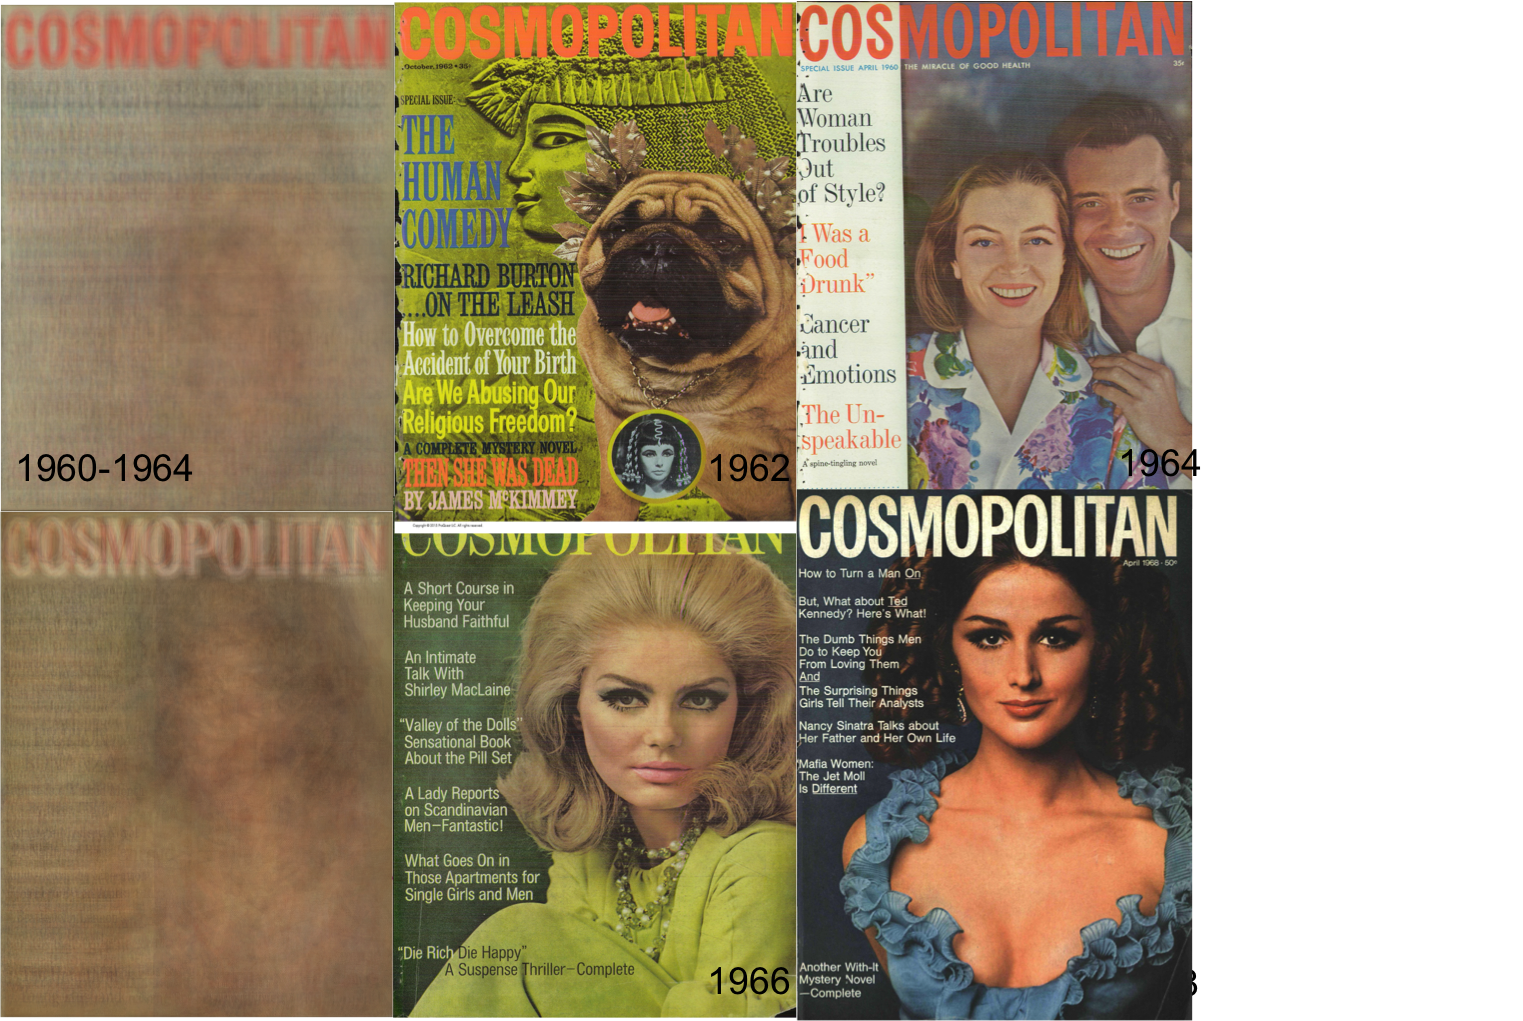
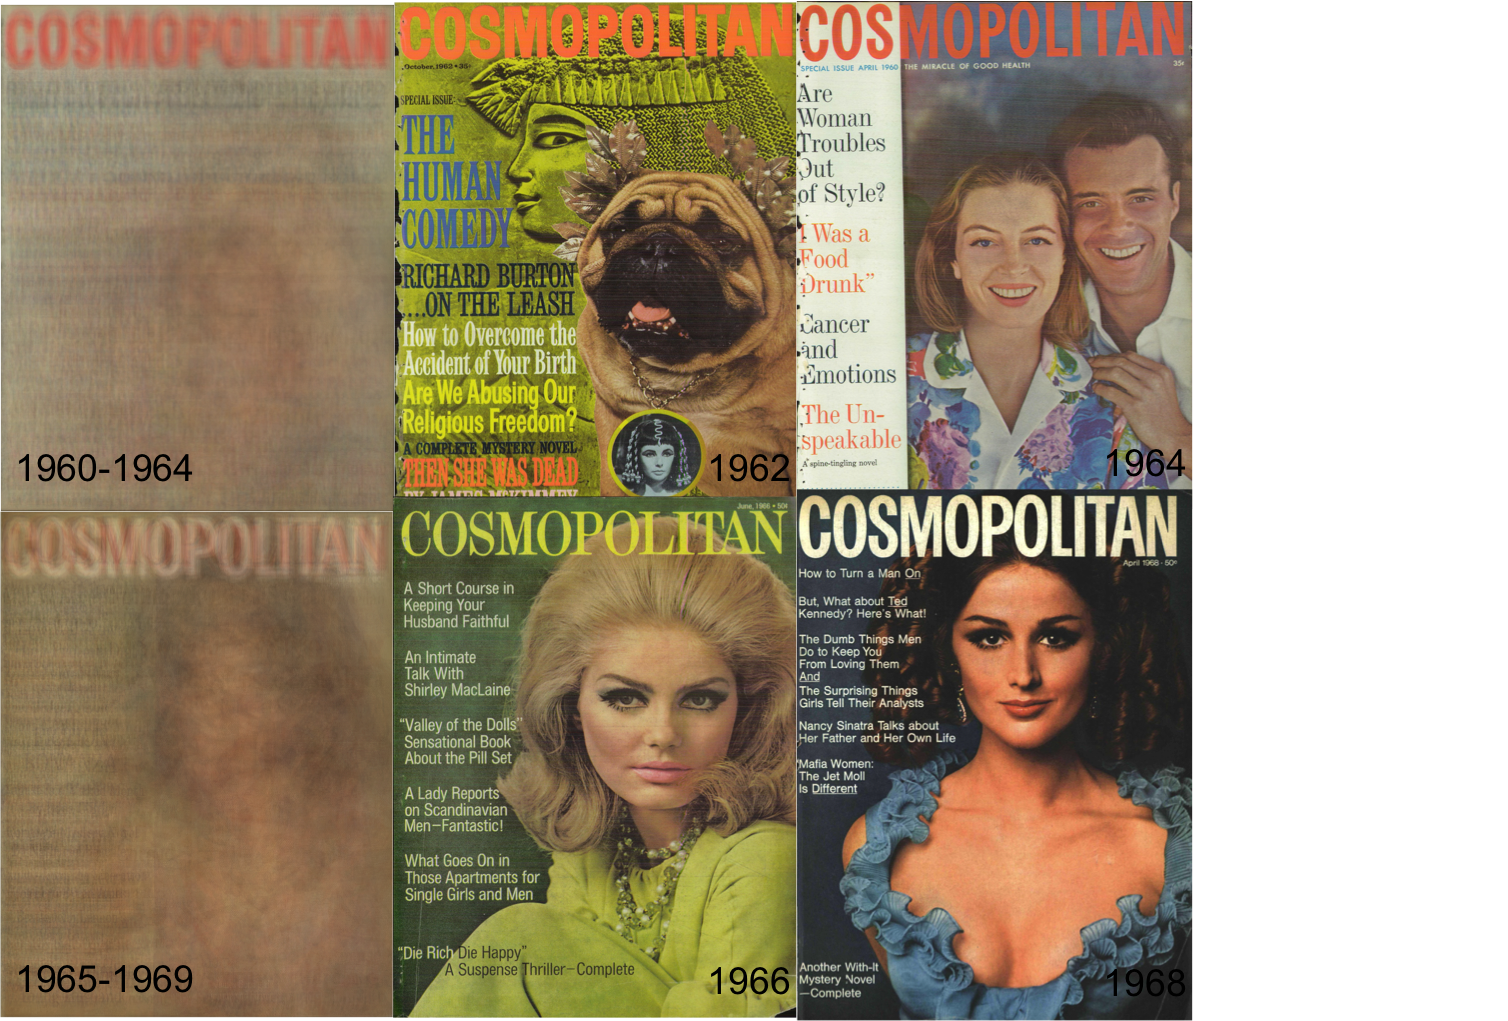
cosmo

Changed region(s): [[0.2493, 0.0, 0.8103, 1.0], [0.0312, 0.4251, 0.1247, 0.4858], [0.0, 0.9412, 0.1247, 0.9716]]

diff --git a/_posts/2018-04-05-cosmo.md b/_posts/2018-04-05-cosmo.md
@@ -3,7 +3,6 @@ layout: post
 title: Cosmopolitan Magazine: A Data-Driven Historical Analysis
 ---
 
-
 **Natural Language Processing and image processing to analyze trends on Cosmopolitan Magazine covers**
 
 Magazine covers have an underrated influence on our culture. Even if you aren’t reading the tabloids or women’s magazines, if I tell you to picture a Cosmo or a People, you can picture the cover and give some examples of the stories they run (“Sexy Hair: Fresh Looks You’ll Adore”). This is because every time you’ve purchased groceries or gotten a snack from the plane, you see magazines. While you wait in line you read the sensationalized headlines and maybe, every once and a while, you even purchase one (just me? Okay.)
@@ -151,7 +150,7 @@ Finally, I also did image analysis to further support my textual analysis. Using
 
 Then starting in the 70s we see the standard cover consisting of a central woman usually white posing with 3/4 of her body shown.
 
-![topics]({{ site.url }}/images/70s2000s.png)
+![topics]({{ site.url }}/images/70s.png)
 
 With the more contemporary topic changes to more empowering language, I am interested to see how much longer this style exists, because to me it feels a bit more objectifying than empowering, and out of curiosity I looked at the most recent covers at the time of this analysis:
 
